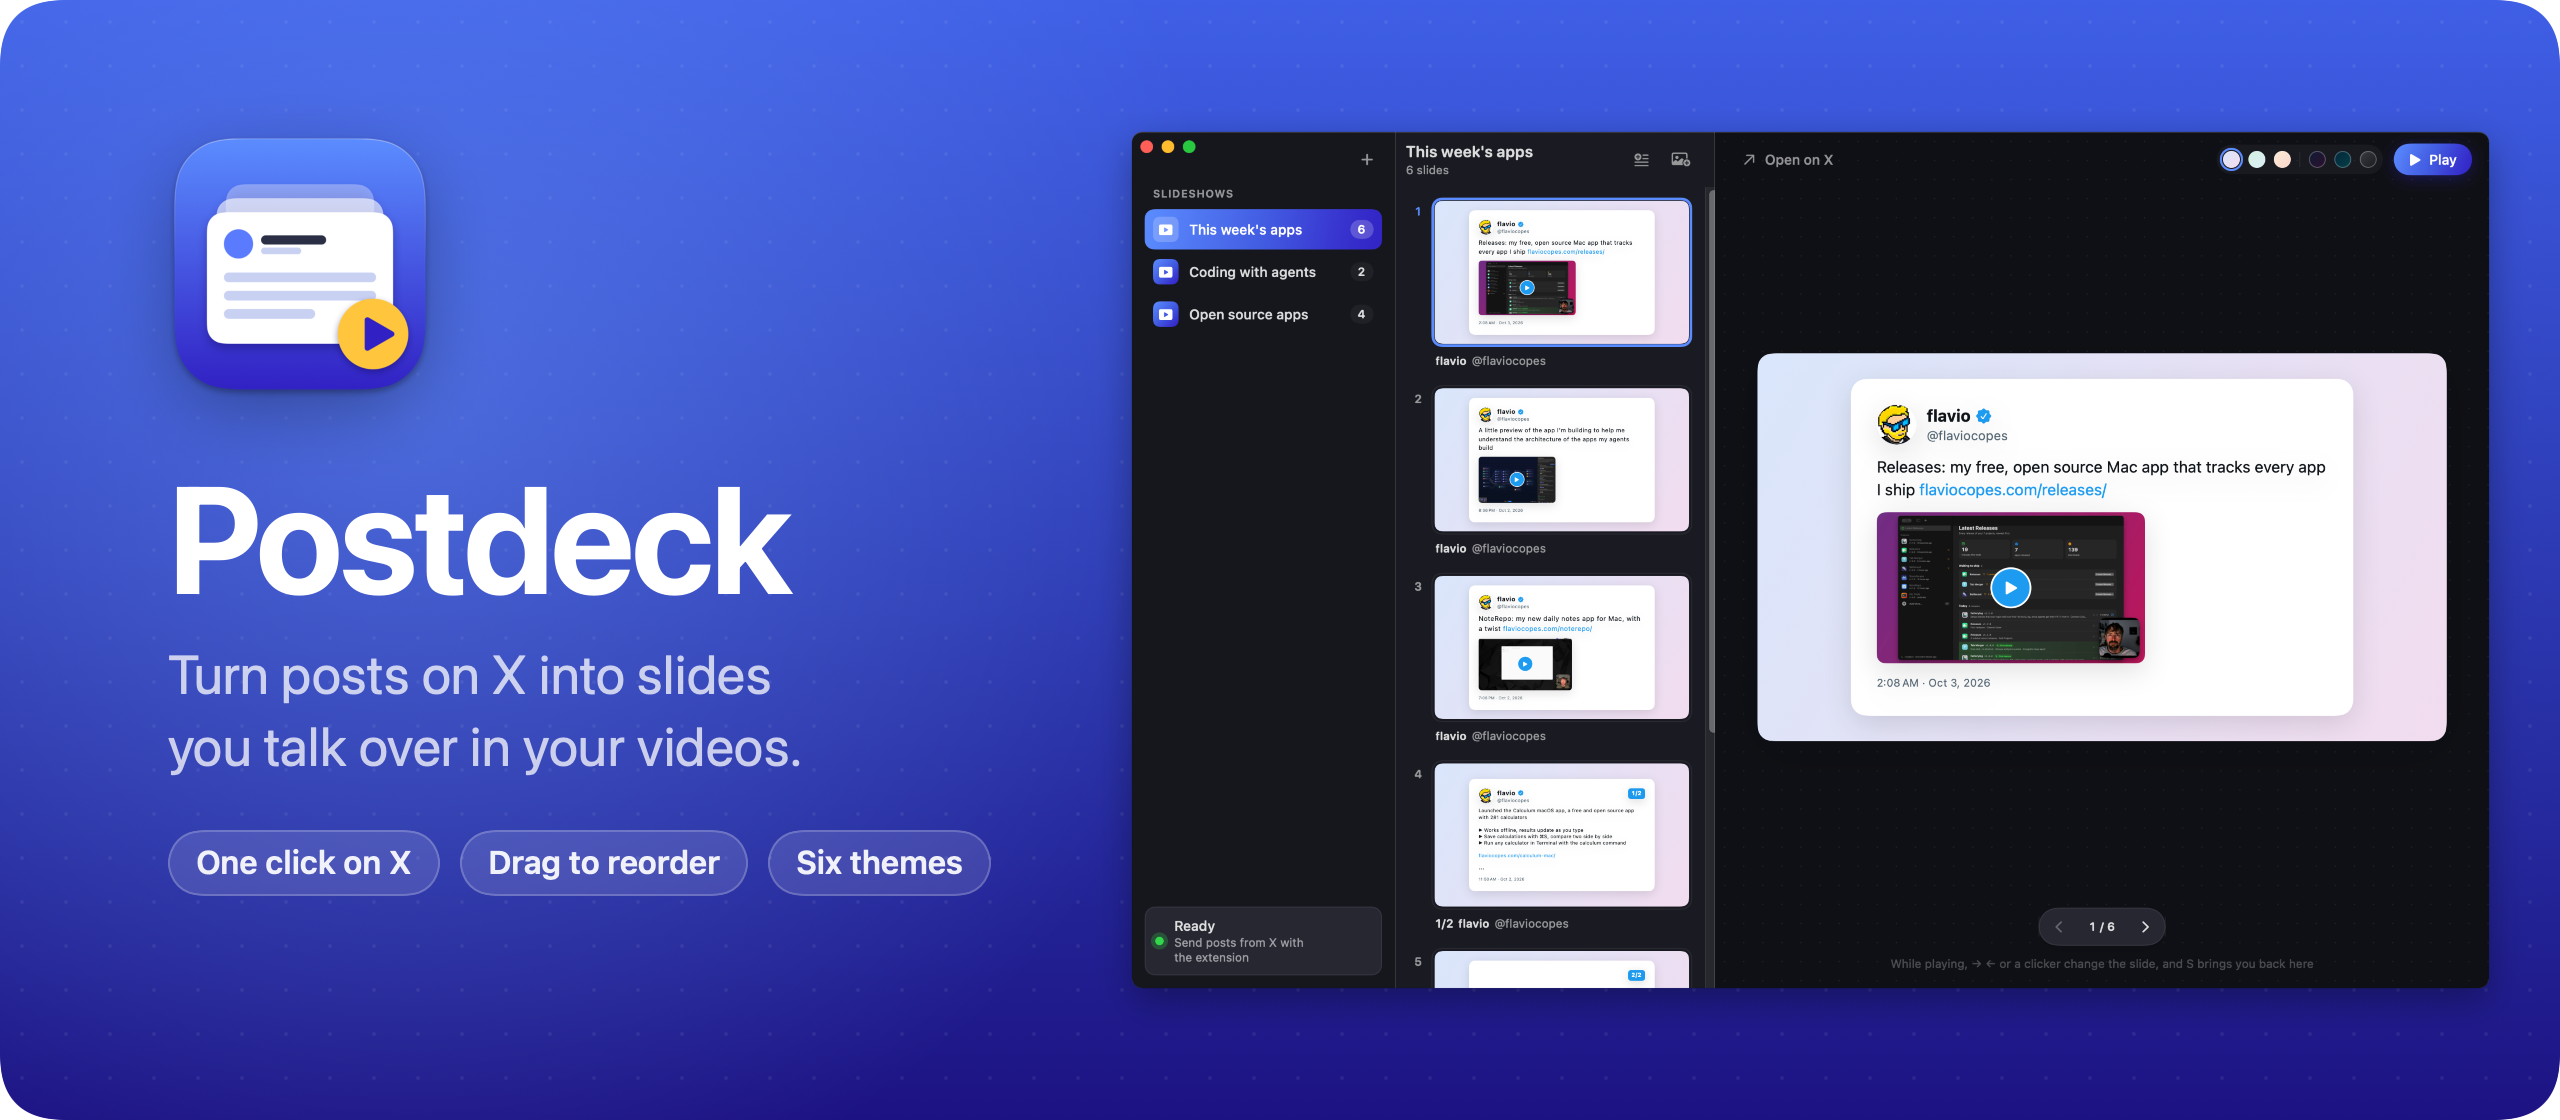
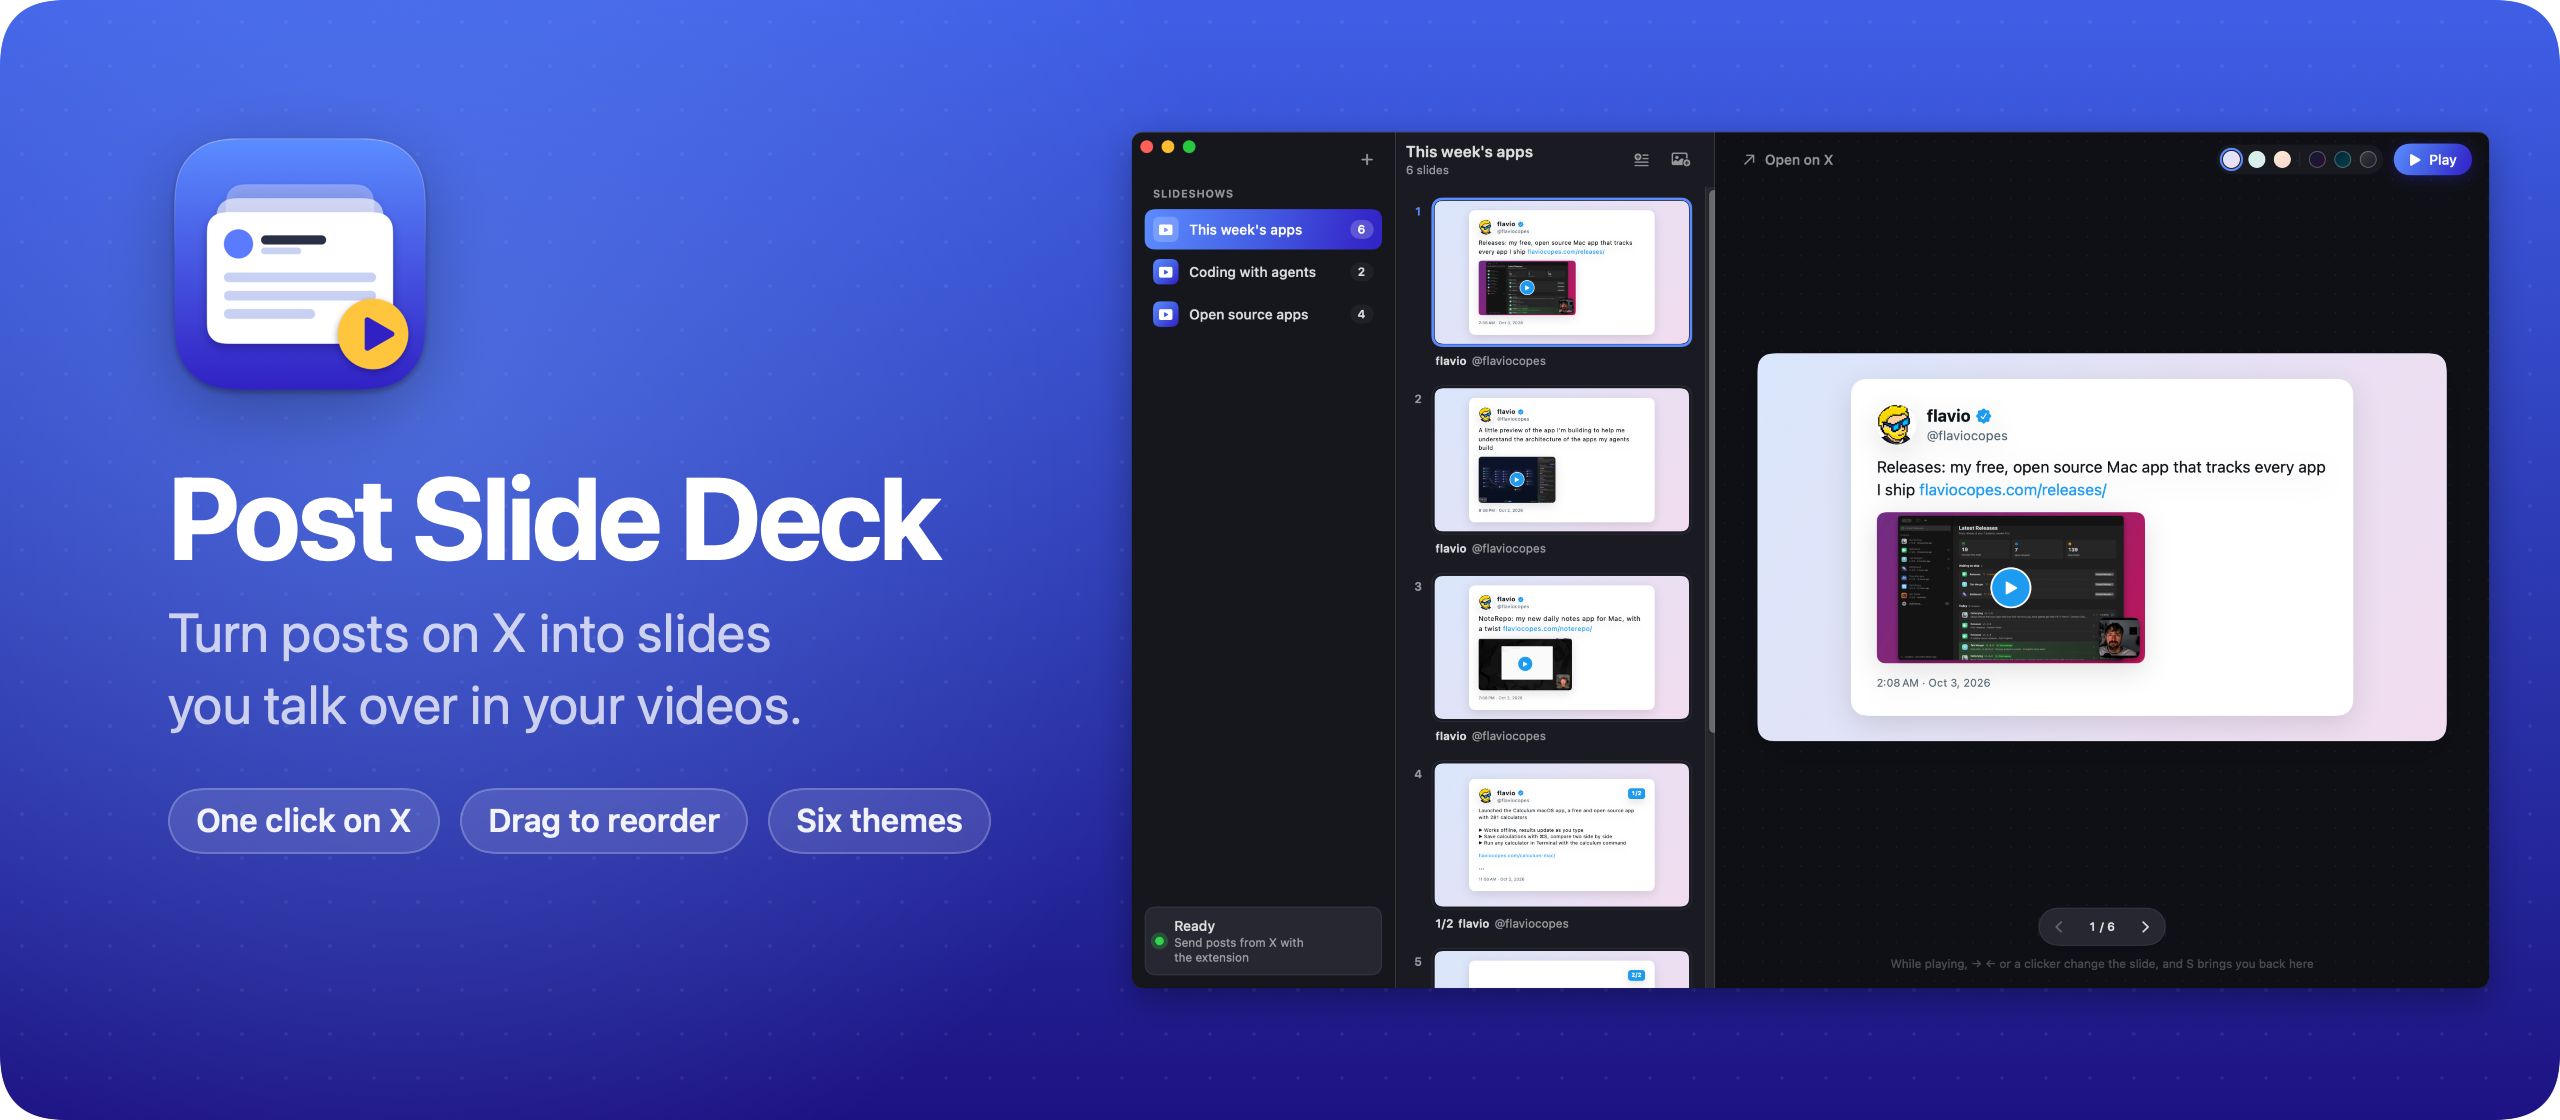
Rename the app to Post Slide Deck

Changed region(s): [[0.0625, 0.4062, 0.4062, 0.8125]]

diff --git a/Sources/PostdeckCLI/Commands.swift b/Sources/PostdeckCLI/Commands.swift
@@ -91,7 +91,7 @@ enum Commands {
     Spec(
       name: "add-image", usage: "add-image <slideshow> <file> [--at <position>] [--json]",
       summary: "Add an image as a slide, like a screenshot", options: ["--at"],
-      details: "It goes at the end, or at --at, counted from 1. Postdeck copies the file, shows it as large as it fits on the theme's background, and keeps it when the original goes away. PNG, JPEG, HEIC, GIF and WebP work."
+      details: "It goes at the end, or at --at, counted from 1. Post Slide Deck copies the file, shows it as large as it fits on the theme's background, and keeps it when the original goes away. PNG, JPEG, HEIC, GIF and WebP work."
     ) { arguments in
       let reference = try arguments.require(0, "the slideshow", spec("add-image"))
       let file = try arguments.require(1, "the image file", spec("add-image"))
@@ -130,8 +130,8 @@ enum Commands {
     },
 
     Spec(
-      name: "open", usage: "open <slideshow> [<slide>] [--json]", summary: "Show a slideshow in Postdeck, at a slide",
-      details: "Selects the slideshow, so posts sent from X go there too, and brings Postdeck to the front."
+      name: "open", usage: "open <slideshow> [<slide>] [--json]", summary: "Show a slideshow in Post Slide Deck, at a slide",
+      details: "Selects the slideshow, so posts sent from X go there too, and brings Post Slide Deck to the front."
     ) { arguments in
       let reference = try arguments.require(0, "the slideshow", spec("open"))
       let reply = try await run(.open(slideshow: reference, slide: arguments.positional(1)), arguments)
@@ -174,7 +174,7 @@ enum Commands {
 
     id, author.name, author.handle, and text or media are needed. links are the parts of the text
     shown in blue, like X shows links and mentions. media has up to 4 images on pbs.twimg.com, with
-    "kind": "photo" or "video" for a video's thumbnail. Postdeck downloads them and the avatar.
+    "kind": "photo" or "video" for a video's thumbnail. Post Slide Deck downloads them and the avatar.
     postedAt is milliseconds since 1970; without it, the date comes from the post ID.
     A slideshow has each post once: adding it again only replaces a shorter text.
     Long posts split into linked pages marked 1/3, 2/3 and so on. Slide numbers match the app.
@@ -229,7 +229,7 @@ enum Output {
       print("\(marker) \(name)  \(count.leftPadded(9))  \(theme)  \(deck.id.uuidString)")
     }
     print()
-    print("* is the slideshow open in Postdeck, where posts sent from X go.")
+    print("* is the slideshow open in Post Slide Deck, where posts sent from X go.")
   }
 
   static func deck(_ deck: Deck) {

diff --git a/extension/content.js b/extension/content.js
@@ -1,4 +1,4 @@
-// Adds the Postdeck button next to Like on every post, and sends the post to the app on click.
+// Adds the Post Slide Deck button next to Like on every post, and sends the post to the app on click.
 
 const ICON_ADD =
   '<rect x="2.75" y="3.75" width="18.5" height="13" rx="2.5"/><path d="M12 7.25v6M9 10.25h6M8.5 20.25h7M12 16.75v3.5"/>'
@@ -36,8 +36,8 @@ function makeButton(reply) {
   icon.setAttribute('viewBox', '0 0 24 24')
   icon.classList.add('postdeck-icon')
   icon.innerHTML = ICON_ADD
-  button.title = 'Add to Postdeck'
-  button.setAttribute('aria-label', 'Add to Postdeck')
+  button.title = 'Add to Post Slide Deck'
+  button.setAttribute('aria-label', 'Add to Post Slide Deck')
   return button
 }
 
@@ -63,7 +63,7 @@ async function send(article, button) {
   if (button.dataset.state === 'sending') return
   const post = readPost(article)
   if (!post) {
-    showToast("Postdeck couldn't find this post's link, so it can't add it.")
+    showToast("Post Slide Deck couldn't find this post's link, so it can't add it.")
     return
   }
 
@@ -77,9 +77,9 @@ async function send(article, button) {
 
   if (!reply.ok) {
     delete button.dataset.state
-    if (reply.error === 'offline') showToast("Postdeck isn't running. Open the app and click again.")
-    else if (reply.error === 'reload') showToast('Postdeck was updated. Reload the page and click again.')
-    else showToast(`Postdeck couldn't add this post. ${reply.error}`)
+    if (reply.error === 'offline') showToast("Post Slide Deck isn't running. Open the app and click again.")
+    else if (reply.error === 'reload') showToast('Post Slide Deck was updated. Reload the page and click again.')
+    else showToast(`Post Slide Deck couldn't add this post. ${reply.error}`)
     return
   }
 
@@ -110,7 +110,7 @@ function showToast(message) {
 
 let scheduled = false
 
-// Quoted posts are articles too, but they have no Like button, so they get no Postdeck button.
+// Quoted posts are articles too, but they have no Like button, so they get no Post Slide Deck button.
 function scan() {
   scheduled = false
   document.querySelectorAll('article').forEach(addButton)

diff --git a/Sources/PostdeckApp/AppModel.swift b/Sources/PostdeckApp/AppModel.swift
@@ -35,7 +35,7 @@ final class AppModel {
       library = Library()
       let backup = store.folder.appending(path: "library-unreadable-\(Int(Date().timeIntervalSince1970)).json")
       try? FileManager.default.moveItem(at: store.libraryURL, to: backup)
-      errorMessage = "Postdeck couldn't read its library, so it started a new one. The old file is \(backup.lastPathComponent) in \(store.folder.path)."
+      errorMessage = "Post Slide Deck couldn't read its library, so it started a new one. The old file is \(backup.lastPathComponent) in \(store.folder.path)."
     }
     selectedSlideID = library.currentDeck?.slides.first?.id
     startServer()
@@ -225,12 +225,12 @@ final class AppModel {
     let inbox = Inbox(
       currentDeckName: { [weak self] in await self?.currentDeck?.name },
       receive: { [weak self] payload in
-        guard let self else { throw PayloadError("Postdeck is quitting.") }
+        guard let self else { throw PayloadError("Post Slide Deck is quitting.") }
         return try await self.receive(payload)
       },
       library: { [weak self] in await self?.library ?? Library() },
       run: { [weak self] command in
-        guard let self else { throw CommandError("Postdeck is quitting.") }
+        guard let self else { throw CommandError("Post Slide Deck is quitting.") }
         return try await self.run(command)
       }
     )
@@ -247,7 +247,7 @@ final class AppModel {
     }
   }
 
-  /// A busy port is often a copy of Postdeck that's still quitting, so keep trying every 2 seconds.
+  /// A busy port is often a copy of Post Slide Deck that's still quitting, so keep trying every 2 seconds.
   private func serverDidChange(_ state: LocalServer.State) {
     serverState = state
     guard case .failed = state else { return }
@@ -308,7 +308,7 @@ final class AppModel {
     do {
       try store.save(library)
     } catch {
-      errorMessage = "Postdeck couldn't save the library: \(error.localizedDescription)"
+      errorMessage = "Post Slide Deck couldn't save the library: \(error.localizedDescription)"
     }
   }
 }

diff --git a/Sources/PostdeckCore/API.swift b/Sources/PostdeckCore/API.swift
@@ -56,17 +56,17 @@ public enum API {
   public static func respond(to request: HTTPRequest, inbox: Inbox) async -> HTTPResponse {
     // A web page can reach 127.0.0.1 through a domain it controls (DNS rebinding). Its requests then name that domain.
     if let host = request.headers["host"], !isLoopback(host) {
-      return .json(403, ErrorReply(error: "Postdeck only answers requests for 127.0.0.1."))
+      return .json(403, ErrorReply(error: "Post Slide Deck only answers requests for 127.0.0.1."))
     }
     // Web pages send their Origin and can't set a JSON content type without a CORS preflight, which this server never allows.
     if let origin = request.headers["origin"], !origin.hasPrefix("chrome-extension://") {
-      return .json(403, ErrorReply(error: "Postdeck only takes posts from its Chrome extension."))
+      return .json(403, ErrorReply(error: "Post Slide Deck only takes posts from its Chrome extension."))
     }
 
     switch (request.method, request.path) {
     case ("GET", "/status"):
       let deck = await inbox.currentDeckName()
-      return .json(200, StatusReply(app: "Postdeck", version: Postdeck.version, deck: deck))
+      return .json(200, StatusReply(app: "Post Slide Deck", version: Postdeck.version, deck: deck))
 
     case ("POST", "/cards"):
       guard isJSON(request) else { return .json(415, ErrorReply(error: "Send the post as JSON.")) }
@@ -84,7 +84,7 @@ public enum API {
     case ("POST", "/commands"):
       guard isJSON(request) else { return .json(415, ErrorReply(error: "Send the command as JSON.")) }
       guard let command = try? JSONDecoder().decode(Command.self, from: request.body) else {
-        return .json(400, ErrorReply(error: "The command isn't valid JSON for Postdeck \(Postdeck.version)."))
+        return .json(400, ErrorReply(error: "The command isn't valid JSON for Post Slide Deck \(Postdeck.version)."))
       }
       do {
         return .json(200, try await inbox.run(command))

diff --git a/Sources/PostdeckCLI/Capabilities.swift b/Sources/PostdeckCLI/Capabilities.swift
@@ -6,7 +6,7 @@ extension Commands {
   static let manifest = Manifest(
     name: "postdeck",
     version: Postdeck.version,
-    summary: "Builds slideshows in the Postdeck app from posts on X, text slides and images.",
+    summary: "Builds slideshows in the Post Slide Deck app from posts on X, text slides and images.",
     capabilities: [
       Manifest.Capability(
         description: "List the slideshows in your library",
@@ -37,7 +37,7 @@ extension Commands {
         command: "postdeck move \"This week's apps\" 4 1"
       ),
       Manifest.Capability(
-        description: "Open a slideshow in Postdeck at a slide",
+        description: "Open a slideshow in Post Slide Deck at a slide",
         command: "postdeck open \"This week's apps\" 1"
       ),
       Manifest.Capability(
@@ -46,6 +46,7 @@ extension Commands {
       ),
     ],
     changelog: [
+      Manifest.Release(version: "1.2.0", date: "2026-10-08", changes: ["Renamed the app and Chrome extension to Post Slide Deck. The postdeck command is unchanged."]),
       Manifest.Release(
         version: "1.1.0",
         date: "2026-10-07",
@@ -60,7 +61,7 @@ extension Commands {
         version: "1.0.0",
         date: "2026-10-03",
         changes: [
-          "First release: Postdeck app and Chrome extension turn X posts into slideshow slides.",
+          "First release: Post Slide Deck app and Chrome extension turn X posts into slideshow slides.",
           "Play a slideshow in the app window for screen recording, with keyboard and clicker controls.",
           "The app downloads avatars and images so slides work offline while you record.",
         ]

diff --git a/Sources/PostdeckCLI/PostdeckCommand.swift b/Sources/PostdeckCLI/PostdeckCommand.swift
@@ -51,7 +51,7 @@ enum PostdeckCommand {
   }
 
   static func printHelp() {
-    print("postdeck \(Postdeck.version): builds slideshows in the Postdeck app, with posts from X, text slides and images.")
+    print("postdeck \(Postdeck.version): builds slideshows in the Post Slide Deck app, with posts from X, text slides and images.")
     print()
     print("Usage: postdeck <command> [options]")
     print()
@@ -63,7 +63,7 @@ enum PostdeckCommand {
     print()
     print("""
       A slideshow is named by its name or ID, a slide by its number, from 1, or its ID. Numbers change
-      when slides move, IDs don't. Postdeck needs to be running, and the command opens it when it isn't.
+      when slides move, IDs don't. Post Slide Deck needs to be running, and the command opens it when it isn't.
       Run 'postdeck help <command>' for its options.
       """)
   }
@@ -169,7 +169,7 @@ enum App {
       return client
     }
     guard open(["-g", "-b", bundleID]) else {
-      throw CLIError("Postdeck isn't running, and macOS couldn't open it. Is it installed?")
+      throw CLIError("Post Slide Deck isn't running, and macOS couldn't open it. Is it installed?")
     }
     for _ in 0..<60 {
       try await Task.sleep(for: .milliseconds(250))
@@ -177,7 +177,7 @@ enum App {
         return client
       }
     }
-    throw CLIError("Postdeck isn't answering on port \(port). Open it and check the status at the bottom of its sidebar.")
+    throw CLIError("Post Slide Deck isn't answering on port \(port). Open it and check the status at the bottom of its sidebar.")
   }
 
   @discardableResult

diff --git a/Sources/PostdeckApp/CardListView.swift b/Sources/PostdeckApp/CardListView.swift
@@ -44,7 +44,7 @@ struct Navigator: View {
     VStack(alignment: .leading, spacing: 0) {
       HStack(spacing: 8) {
         VStack(alignment: .leading, spacing: 1) {
-          Text(model.currentDeck?.name ?? "Postdeck")
+          Text(model.currentDeck?.name ?? "Post Slide Deck")
             .font(Typography.title)
             .lineLimit(1)
           Text(subtitle)
@@ -92,7 +92,7 @@ struct Navigator: View {
         EmptyState(
           symbol: "play.rectangle",
           title: "No slideshow",
-          message: "Create one with the + button, or send a post from X and Postdeck starts one for you."
+          message: "Create one with the + button, or send a post from X and Post Slide Deck starts one for you."
         )
         .frame(maxWidth: .infinity, maxHeight: .infinity)
       }

diff --git a/Sources/PostdeckApp/CommandLineTool.swift b/Sources/PostdeckApp/CommandLineTool.swift
@@ -15,7 +15,7 @@ enum CommandLineTool {
     let alert = NSAlert()
     do {
       guard FileManager.default.isExecutableFile(atPath: bundled.path) else {
-        throw CocoaError(.fileNoSuchFile, userInfo: [NSLocalizedDescriptionKey: "This copy of Postdeck has no postdeck command inside. Build it with Scripts/build-app.sh."])
+        throw CocoaError(.fileNoSuchFile, userInfo: [NSLocalizedDescriptionKey: "This copy of Post Slide Deck has no postdeck command inside. Build it with Scripts/build-app.sh."])
       }
       try FileManager.default.createDirectory(at: link.deletingLastPathComponent(), withIntermediateDirectories: true)
       if (try? FileManager.default.destinationOfSymbolicLink(atPath: link.path)) != nil || FileManager.default.fileExists(atPath: link.path) {

diff --git a/Scripts/screenshot.swift b/Scripts/screenshot.swift
@@ -15,7 +15,7 @@ let height: CGFloat = 780
 enum Screenshot {
   @MainActor
   static func main() {
-    // The library to show, and a free port, so a running Postdeck keeps its own.
+    // The library to show, and a free port, so a running Post Slide Deck keeps its own.
     setenv("POSTDECK_HOME", CommandLine.arguments[2], 1)
     setenv("POSTDECK_PORT", "0", 1)
     let model = AppModel()
@@ -29,7 +29,7 @@ enum Screenshot {
       backing: .buffered,
       defer: false
     )
-    window.title = "Postdeck"
+    window.title = "Post Slide Deck"
     window.titlebarAppearsTransparent = true
     window.titleVisibility = .hidden
     window.contentView = host

diff --git a/Sources/PostdeckCore/LibraryStore.swift b/Sources/PostdeckCore/LibraryStore.swift
@@ -53,7 +53,7 @@ public struct LibraryStore: Sendable {
     guard let source = CGImageSourceCreateWithURL(url as CFURL, nil), CGImageSourceGetCount(source) > 0,
       let type = CGImageSourceGetType(source).flatMap({ UTType($0 as String) })
     else {
-      throw CommandError("\(url.lastPathComponent) isn't an image Postdeck can show.")
+      throw CommandError("\(url.lastPathComponent) isn't an image Post Slide Deck can show.")
     }
     let file = "\(id).\(type.preferredFilenameExtension ?? url.pathExtension.lowercased())"
     try FileManager.default.createDirectory(at: mediaFolder, withIntermediateDirectories: true)

diff --git a/Sources/PostdeckApp/AgentSkill.swift b/Sources/PostdeckApp/AgentSkill.swift
@@ -23,7 +23,7 @@ enum AgentSkill {
   /// Copies the skill in and links it for each agent that's installed. Returns what went wrong, if anything.
   static func install() -> String? {
     let fm = FileManager.default
-    guard let bundled else { return "The skill is missing from this copy of Postdeck. Build it with Scripts/build-app.sh." }
+    guard let bundled else { return "The skill is missing from this copy of Post Slide Deck. Build it with Scripts/build-app.sh." }
     do {
       try fm.createDirectory(at: folder, withIntermediateDirectories: true)
       try replace(folder.appending(path: "SKILL.md"), with: bundled)

diff --git a/Scripts/render-banner.swift b/Scripts/render-banner.swift
@@ -7,7 +7,7 @@
 import AppKit
 import SwiftUI
 
-let name = "Postdeck"
+let name = "Post Slide Deck"
 let tagline = "Turn posts on X into slides\nyou talk over in your videos."
 let chips = ["One click on X", "Drag to reorder", "Six themes"]
 let size = CGSize(width: 1280, height: 560)
@@ -75,7 +75,7 @@ struct Banner: View {
           .padding(-12)
           .shadow(color: .black.opacity(0.3), radius: 18, y: 10)
         Text(name)
-          .font(.system(size: 76, weight: .bold))
+          .font(.system(size: 58, weight: .bold))
           .tracking(-1.8)
           .foregroundStyle(.white)
           .padding(.top, 26)
